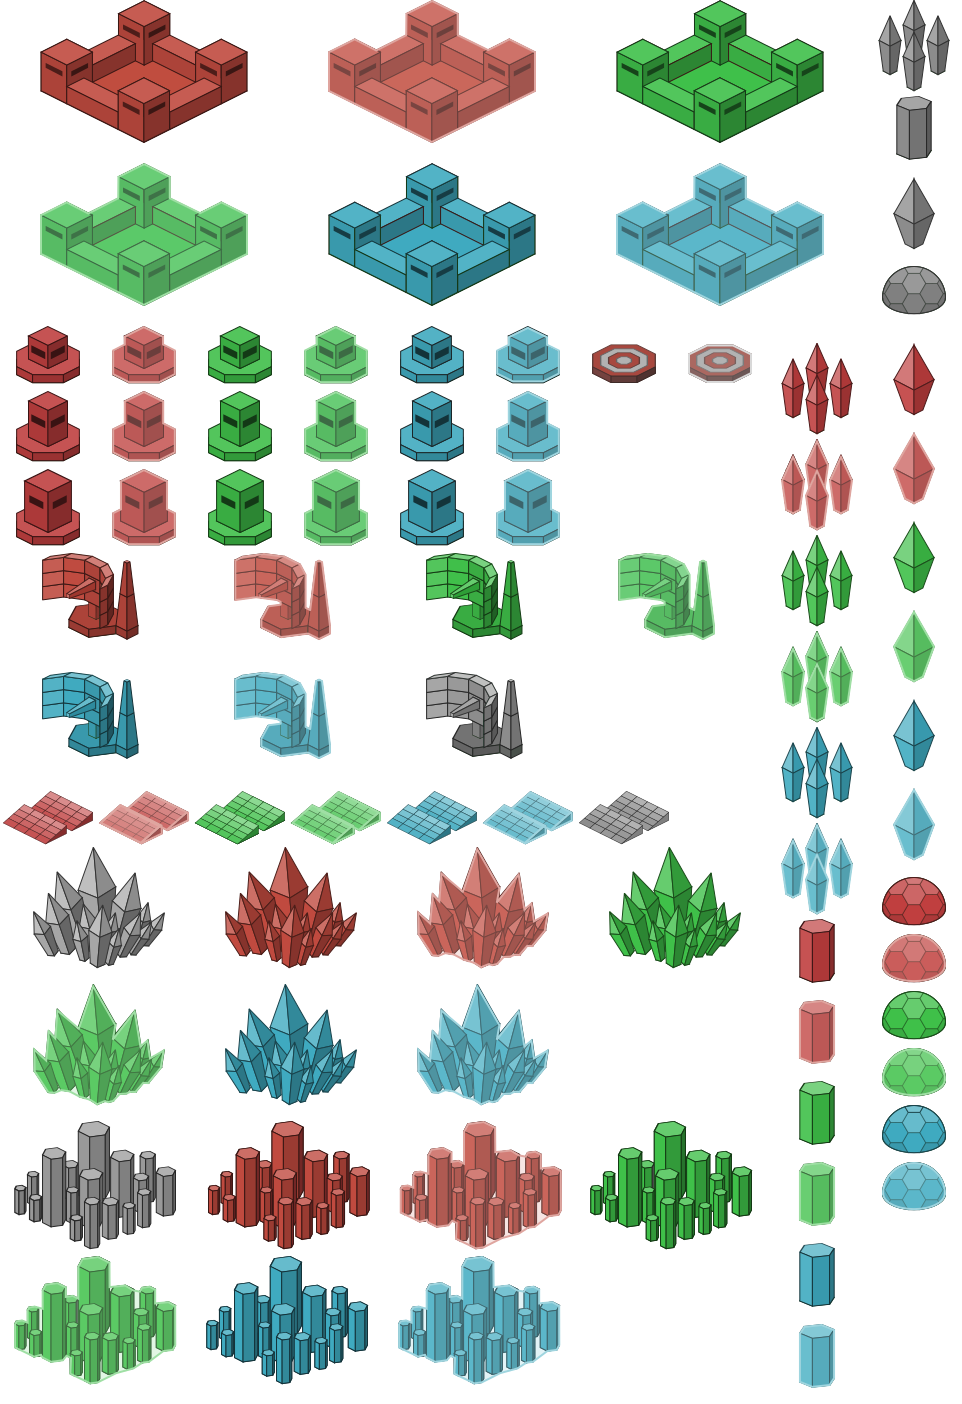
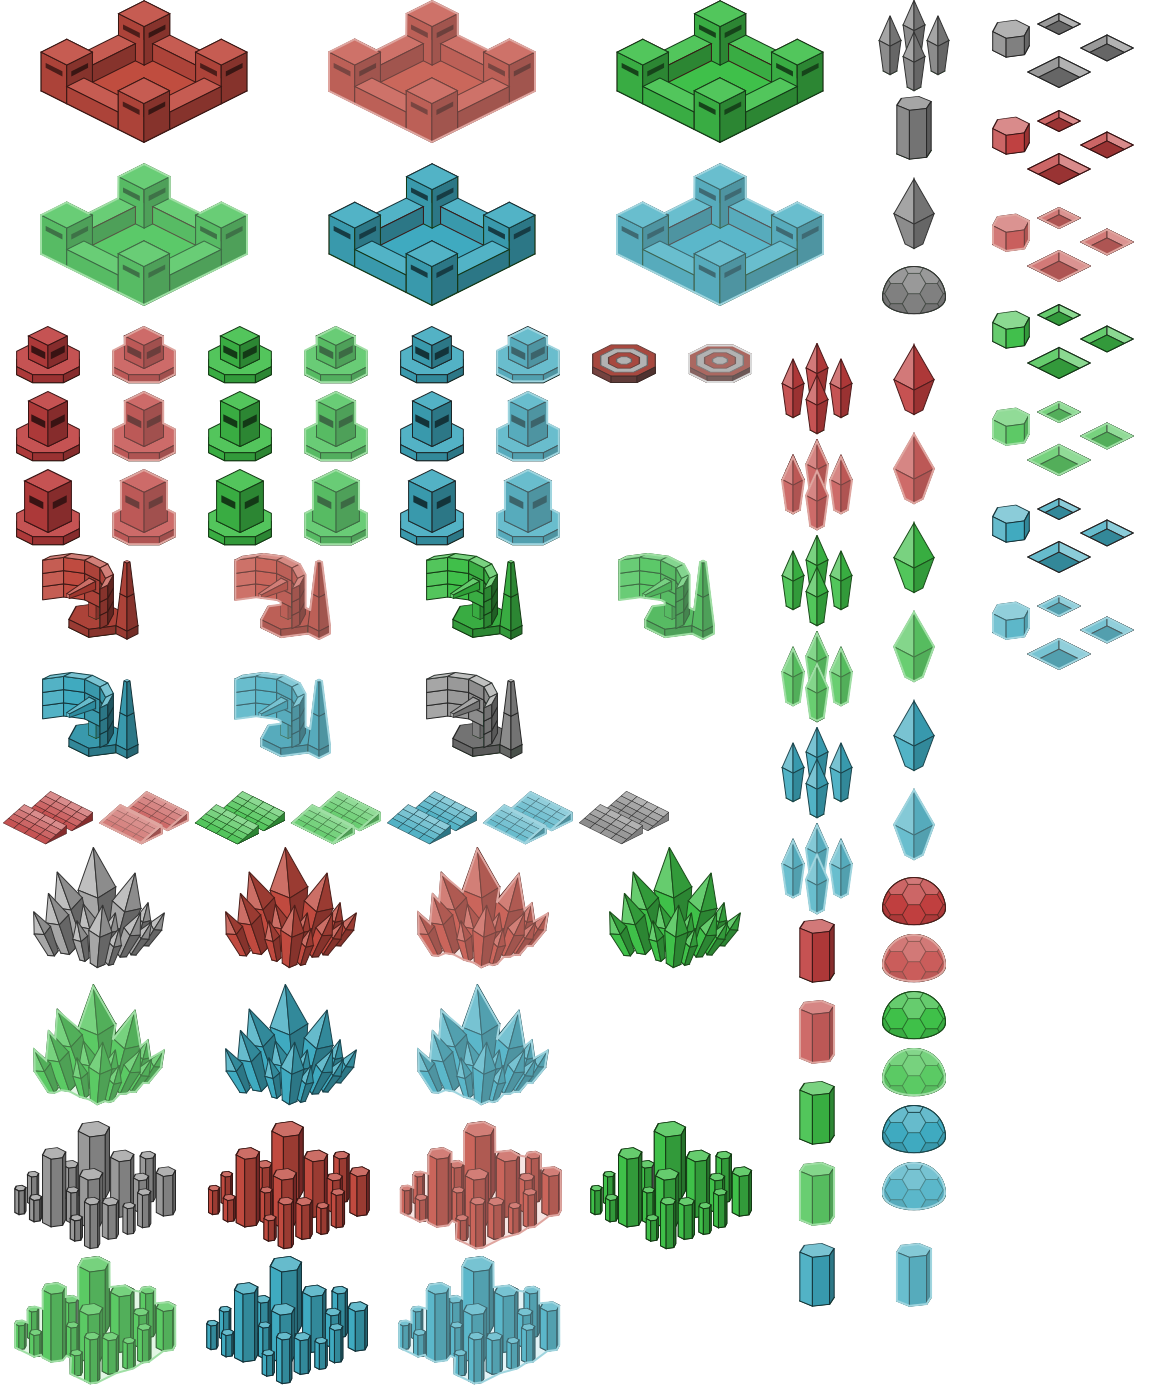
Implement material extractor

diff --git a/src/GameObjects/ObjectsDataRegistry.cpp b/src/GameObjects/ObjectsDataRegistry.cpp
@@ -74,6 +74,18 @@ void ObjectsDataRegistry::InitStructures()
                    Structure::DESCRIPTIONS[STRUCT_DEF_TOWER])
     );
 
+    // material extractor
+    data1.emplace
+    (
+        STRUCT_RES_GEN_MATERIAL_EXTRACTOR,
+        ObjectData(std::vector<int>{ 4, 2, 0, 0, 0, 0, 2, 2, 2 },
+                   std::vector<int>{ 150, 150, 10, 10 },
+                   SpriteFileStructures, ID_MATERIAL_EXTRACTOR_F1,
+                   OCS_GENERATOR, STRUCT_RES_GEN_MATERIAL_EXTRACTOR, 2, 2,
+                   Structure::TITLES[STRUCT_RES_GEN_MATERIAL_EXTRACTOR],
+                   Structure::DESCRIPTIONS[STRUCT_RES_GEN_MATERIAL_EXTRACTOR])
+    );
+
     // solar panel
     data1.emplace
     (
@@ -185,6 +197,18 @@ void ObjectsDataRegistry::InitStructures()
                    Structure::DESCRIPTIONS[STRUCT_DEF_TOWER])
     );
 
+    // material extractor
+    data2.emplace
+    (
+        STRUCT_RES_GEN_MATERIAL_EXTRACTOR,
+        ObjectData(std::vector<int>{ 4, 2, 0, 0, 0, 0, 2, 2, 2 },
+                   std::vector<int>{ 150, 150, 10, 10 },
+                   SpriteFileStructures, ID_MATERIAL_EXTRACTOR_F2,
+                   OCS_GENERATOR, STRUCT_RES_GEN_MATERIAL_EXTRACTOR, 2, 2,
+                   Structure::TITLES[STRUCT_RES_GEN_MATERIAL_EXTRACTOR],
+                   Structure::DESCRIPTIONS[STRUCT_RES_GEN_MATERIAL_EXTRACTOR])
+    );
+
     // solar panel
     data2.emplace
     (
@@ -294,6 +318,18 @@ void ObjectsDataRegistry::InitStructures()
                    OCS_TOWER, STRUCT_DEF_TOWER, 1, 1,
                    Structure::TITLES[STRUCT_DEF_TOWER],
                    Structure::DESCRIPTIONS[STRUCT_DEF_TOWER])
+    );
+
+    // material extractor
+    data3.emplace
+    (
+        STRUCT_RES_GEN_MATERIAL_EXTRACTOR,
+        ObjectData(std::vector<int>{ 4, 2, 0, 0, 0, 0, 2, 2, 2 },
+                   std::vector<int>{ 150, 150, 10, 10 },
+                   SpriteFileStructures, ID_MATERIAL_EXTRACTOR_F3,
+                   OCS_GENERATOR, STRUCT_RES_GEN_MATERIAL_EXTRACTOR, 2, 2,
+                   Structure::TITLES[STRUCT_RES_GEN_MATERIAL_EXTRACTOR],
+                   Structure::DESCRIPTIONS[STRUCT_RES_GEN_MATERIAL_EXTRACTOR])
     );
 
     // solar panel

diff --git a/src/Screens/ScreenNewGame.cpp b/src/Screens/ScreenNewGame.cpp
@@ -197,6 +197,7 @@ ScreenNewGame::ScreenNewGame(Game * game)
         p->AddAvailableStructure(dataReg->GetStructure(pf, STRUCT_RES_STO_BLOBS));
         p->AddAvailableStructure(dataReg->GetStructure(pf, STRUCT_WALL_GATE));
         p->AddAvailableStructure(dataReg->GetStructure(pf, STRUCT_DEF_TOWER));
+        p->AddAvailableStructure(dataReg->GetStructure(pf, STRUCT_RES_GEN_MATERIAL_EXTRACTOR));
         p->AddAvailableStructure(dataReg->GetStructure(pf, STRUCT_RES_GEN_SOLAR));
         p->AddAvailableStructure(dataReg->GetStructure(pf, STRUCT_RADAR));
         p->AddAvailableStructure(dataReg->GetStructure(pf, STRUCT_TARGET));
@@ -243,6 +244,7 @@ ScreenNewGame::ScreenNewGame(Game * game)
             p->AddAvailableStructure(dataReg->GetStructure(facAI, STRUCT_WALL_GATE));
             p->AddAvailableStructure(dataReg->GetStructure(facAI, STRUCT_DEF_TOWER));
             p->AddAvailableStructure(dataReg->GetStructure(facAI, STRUCT_RADAR));
+            p->AddAvailableStructure(dataReg->GetStructure(facAI, STRUCT_RES_GEN_MATERIAL_EXTRACTOR));
             p->AddAvailableStructure(dataReg->GetStructure(facAI, STRUCT_RES_GEN_SOLAR));
             p->AddAvailableStructure(dataReg->GetStructure(facAI, STRUCT_TARGET));
 

diff --git a/src/GameObjects/Structure.cpp b/src/GameObjects/Structure.cpp
@@ -12,6 +12,7 @@ const char * Structure::TITLES[NUM_STRUCT_TYPES] =
     "RADAR STATION",
     "ENERGY GENERATOR",
     "MATERIAL GENERATOR",
+    "MATERIAL EXTRACTOR",
     "SOLAR PANELS",
     "ENERGY STORAGE",
     "MATERIAL STORAGE",
@@ -29,6 +30,7 @@ const char * Structure::DESCRIPTIONS[NUM_STRUCT_TYPES] =
     "A radar station that can show a big portion of the map.",
     "A generator of energy.\nConnect it to your base to produce energy.",
     "A generator of material.\n Connect it to your base to mine material.",
+    "A mine that can extract material from the ground.\n Connect it to your base to produce material.",
     "A solar panel.\nConnect it to your base to produce energy. ",
     "Storage unit that can contain 500 units of energy.",
     "Storage unit that can contain 250 units of material.",
@@ -48,6 +50,7 @@ GameObjectType Structure::StructureToGameObject(StructureType st)
         OBJ_RADAR_STATION,
         OBJ_RES_GEN_ENERGY,
         OBJ_RES_GEN_MATERIAL1,
+        OBJ_RES_GEN_MATERIAL_EXTRACTOR,
         OBJ_RES_GEN_ENERGY_SOLAR,
         OBJ_RES_STORAGE_ENERGY,
         OBJ_RES_STORAGE_MATERIAL,

diff --git a/src/Screens/ScreenInit.cpp b/src/Screens/ScreenInit.cpp
@@ -397,7 +397,7 @@ ScreenInit::ScreenInit(Game * game)
             { 769, 1081, 96, 80 },
             { 769, 1162, 96, 80 },
             { 769, 1243, 96, 80 },
-            { 769, 1324, 96, 80 },
+            { 866, 1243, 96, 80 },
             // storage diamonds
             { 866, 177, 96, 88 },
             { 866, 343, 96, 88 },
@@ -413,7 +413,15 @@ ScreenInit::ScreenInit(Game * game)
             { 866, 991, 96, 56 },
             { 866, 1048, 96, 56 },
             { 866, 1105, 96, 56 },
-            { 866, 1162, 96, 56 }
+            { 866, 1162, 96, 56 },
+            // material extractor
+            { 963, 0, 192, 96 },
+            { 963, 97, 192, 96 },
+            { 963, 194, 192, 96 },
+            { 963, 291, 192, 96 },
+            { 963, 388, 192, 96 },
+            { 963, 485, 192, 96 },
+            { 963, 582, 192, 96 }
         };
 
         tm->RegisterSprite(SpriteFileStructures, rects);

diff --git a/src/GameObjects/ResourceGenerator.cpp b/src/GameObjects/ResourceGenerator.cpp
@@ -67,6 +67,13 @@ void ResourceGenerator::SetImage()
         else
             texId = ID_STRUCT_SOLAR_PANEL;
     }
+    else if(RESG_MATERIAL_EXTRACTOR == mTypeGen)
+    {
+        if(faction != NO_FACTION && IsVisible())
+            texId = ID_MATERIAL_EXTRACTOR_F1 + (faction * NUM_MATERIAL_EXTRACTOR_SPRITES_PER_FAC) + sel;
+        else
+            texId = ID_MATERIAL_EXTRACTOR;
+    }
 
     sgl::graphic::Texture * tex = tm->GetSprite(SpriteFileStructures, texId);
     isoObj->SetTexture(tex);
@@ -77,9 +84,11 @@ void ResourceGenerator::UpdateOutput()
     if(RESG_ENERGY == mTypeGen)
         mOutput = 30;
     else if(RESG_MATERIAL == mTypeGen)
-        mOutput = 2;
+        mOutput = 6;
     else if(RESG_ENERGY_SOLAR == mTypeGen)
         mOutput = 10;
+    else if(RESG_MATERIAL_EXTRACTOR == mTypeGen)
+        mOutput = 2;
     // default
     else
         mOutput = 1;

diff --git a/src/GameData.h b/src/GameData.h
@@ -247,12 +247,21 @@ enum SpriteIdStructures : unsigned int
     ID_STRUCT_STORAGE_BLOBS_F2_SEL,
     ID_STRUCT_STORAGE_BLOBS_F3,
     ID_STRUCT_STORAGE_BLOBS_F3_SEL,
+    // MATERIAL EXTRACTOR
+    ID_MATERIAL_EXTRACTOR,
+    ID_MATERIAL_EXTRACTOR_F1,
+    ID_MATERIAL_EXTRACTOR_F1_SEL,
+    ID_MATERIAL_EXTRACTOR_F2,
+    ID_MATERIAL_EXTRACTOR_F2_SEL,
+    ID_MATERIAL_EXTRACTOR_F3,
+    ID_MATERIAL_EXTRACTOR_F3_SEL,
 
     // special values
     NUM_BASE_SPRITES_PER_FAC = 2,
     NUM_DTOWER_SPRITES_PER_FAC = 2,
     NUM_DTOWER_SPRITES_PER_LVL = 6,
     NUM_RADAR_SPRITES_PER_FAC = 2,
+    NUM_MATERIAL_EXTRACTOR_SPRITES_PER_FAC = 2,
     NUM_SOLAR_PANEL_SPRITES_PER_FAC = 2,
     NUM_ENE_GEN_SPRITES_PER_FAC = 2,
     NUM_ENE_STO_SPRITES_PER_FAC = 2,

diff --git a/src/Screens/ScreenGame.cpp b/src/Screens/ScreenGame.cpp
@@ -844,11 +844,15 @@ void ScreenGame::OnKeyUp(sgl::core::KeyboardEvent & event)
         {
             p->SumResource(Player::Stat::ENERGY, 100);
             p->SumResource(Player::Stat::MATERIAL, 50);
+            p->SumResource(Player::Stat::BLOBS, 10);
+            p->SumResource(Player::Stat::DIAMONDS, 10);
         }
         else if(event.IsModCtrlDown())
         {
             p->SumResource(Player::Stat::ENERGY, -50);
             p->SumResource(Player::Stat::MATERIAL, -50);
+            p->SumResource(Player::Stat::BLOBS, -10);
+            p->SumResource(Player::Stat::DIAMONDS, -10);
         }
     }
 }

diff --git a/src/GameMap.cpp b/src/GameMap.cpp
@@ -406,6 +406,8 @@ GameObject * GameMap::CreateObject(unsigned int layerId, unsigned int objId, Pla
         obj = new ResourceGenerator(RESG_MATERIAL, ResourceType::RES_MATERIAL1, rows, cols);
     else if(OBJ_RES_GEN_ENERGY_SOLAR == objId)
         obj = new ResourceGenerator(RESG_ENERGY_SOLAR, ResourceType::RES_ENERGY, rows, cols);
+    else if(OBJ_RES_GEN_MATERIAL_EXTRACTOR == objId)
+        obj = new ResourceGenerator(RESG_MATERIAL_EXTRACTOR, ResourceType::RES_MATERIAL1, rows, cols);
     else if(OBJ_BASE == objId)
     {
         obj = new Base(rows, cols);

diff --git a/src/GameObjects/GameObject.h b/src/GameObjects/GameObject.h
@@ -17,6 +17,7 @@ enum class MapObjectId : unsigned int
     GEN_ENERGY = 2000,
     GEN_MATERIAL1,
     GEN_ENERGY_SOLAR,
+    GEN_MATERIAL_EXTRACTOR,
 
     // STRUCTURES
     RADAR_STATION = 3000,
@@ -100,6 +101,7 @@ enum GameObjectType : unsigned int
     OBJ_RES_GEN_ENERGY,
     OBJ_RES_GEN_ENERGY_SOLAR,
     OBJ_RES_GEN_MATERIAL1,
+    OBJ_RES_GEN_MATERIAL_EXTRACTOR,
 
     OBJ_RES_STORAGE,
     OBJ_RES_STORAGE_ENERGY,

diff --git a/src/GameObjects/Structure.h b/src/GameObjects/Structure.h
@@ -12,6 +12,7 @@ enum StructureType : unsigned int
     STRUCT_RADAR,
     STRUCT_RES_GEN_ENERGY,
     STRUCT_RES_GEN_MATERIAL,
+    STRUCT_RES_GEN_MATERIAL_EXTRACTOR,
     STRUCT_RES_GEN_SOLAR,
     STRUCT_RES_STO_ENERGY,
     STRUCT_RES_STO_MATERIAL,

diff --git a/src/GameObjects/ResourceGenerator.h b/src/GameObjects/ResourceGenerator.h
@@ -10,6 +10,7 @@ enum ResourceGeneratorType : unsigned int
     RESG_ENERGY,
     RESG_ENERGY_SOLAR,
     RESG_MATERIAL,
+    RESG_MATERIAL_EXTRACTOR,
 
     NUM_RES_GEN_TYPES
 };
